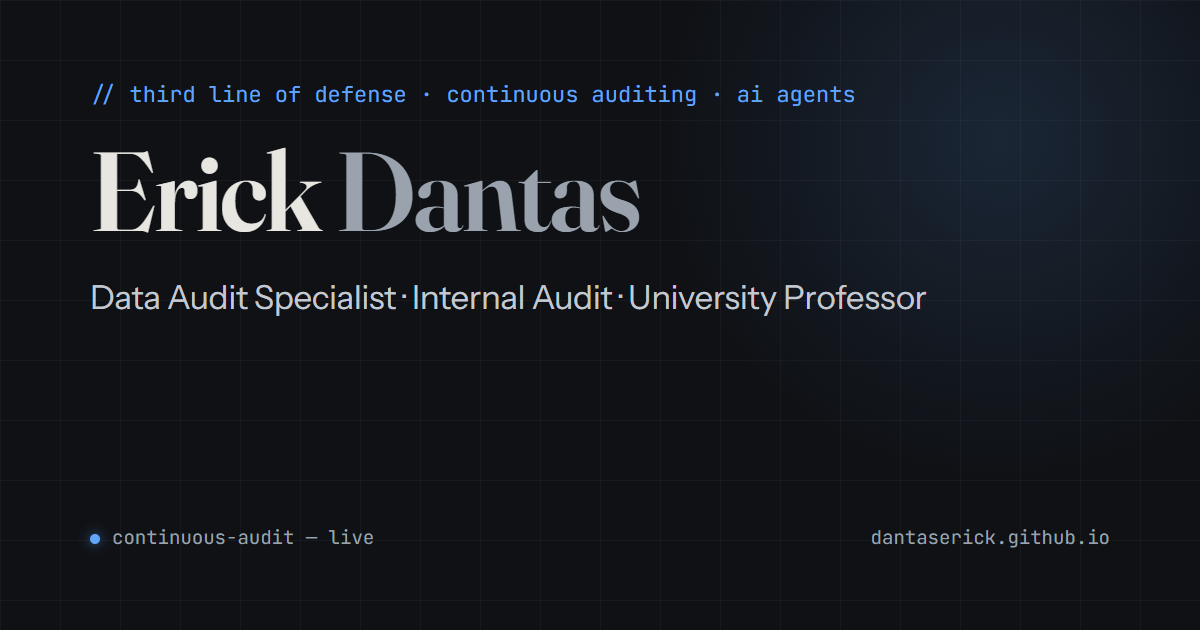
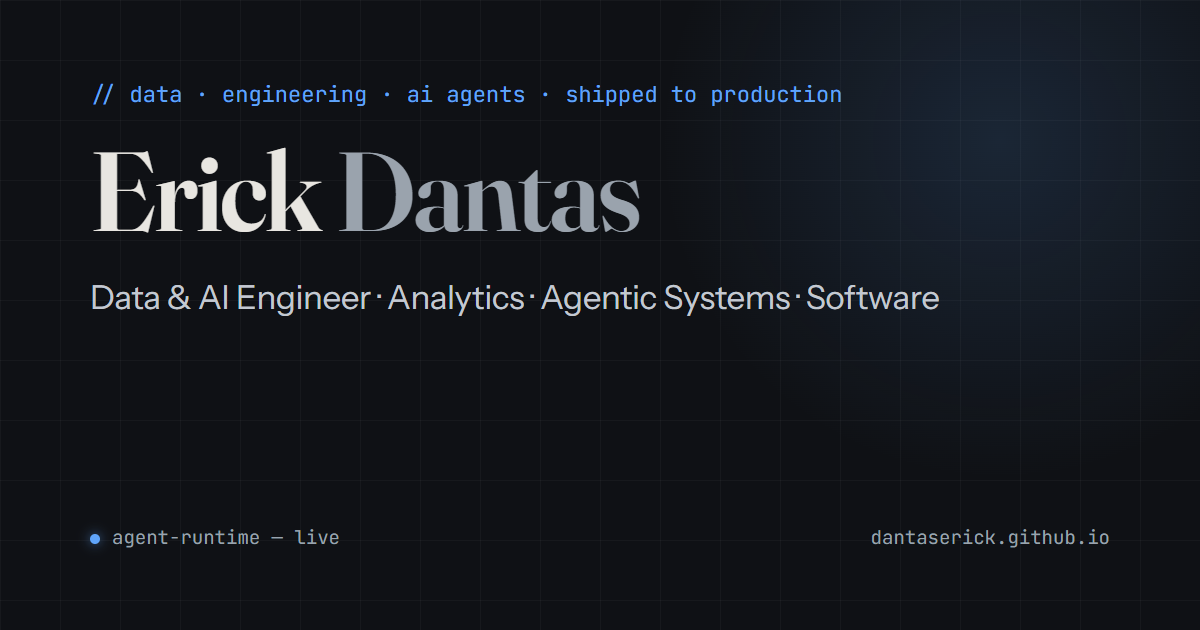
feat: reframe positioning to Data & AI Engineer (ADR-006)
Headline, hero intro, About, credentials, capabilities (5 groups, AI second),
experience bullets, agent-runtime console, title/meta/OG. Audit becomes the
domain, not the identity. Accent switched to electric blue; e-mail in hero.

Claude-Session: https://claude.ai/code/session_01LbHugGfKncvrw8msqh7Tj7

Changed region(s): [[0.1233, 0.4524, 0.8017, 0.5127], [0.0925, 0.1206, 0.7092, 0.181], [0.0925, 0.8444, 0.3083, 0.8746]]

diff --git a/src/content.ts b/src/content.ts
@@ -27,7 +27,7 @@ export type Alert = { level: 'ok' | 'info' | 'warn'; label: string; text: string
 
 export const person = {
   name: 'Erick Dantas',
-  headline: 'Data Audit Specialist · Internal Audit · AI Agents · University Professor',
+  headline: 'Data & AI Engineer · Analytics · Agentic Systems · Software',
   location: 'Santos, São Paulo, Brazil',
   email: 'dantaserick@hotmail.com',
   siteUrl: 'https://dantaserick.github.io/',
@@ -45,30 +45,30 @@ export const portrait = {
 
 /** Credentials strip under the hero. */
 export const credentials: { value: string; label: string }[] = [
-  { value: '10+', label: 'years across engineering, research and audit' },
-  { value: '3rd', label: 'line of defense, Internal Audit' },
-  { value: '2022', label: 'in Internal Audit data team since' },
+  { value: '10+', label: 'years across engineering, research and data' },
+  { value: '4+', label: 'AI agents on real fieldwork, human-gated' },
+  { value: '3', label: 'languages in production: SQL, Scala, Python' },
   { value: 'MSc', label: 'Universidade Federal de São Paulo' },
   { value: '2019', label: 'University Professor since' },
 ]
 
 export const heroIntro =
-  'I turn audit objectives into analytical tests over large-scale financial data, and build governed AI agents so audits scale without losing rigor.'
+  'I build data pipelines, analytical tests and governed AI agents that run on real financial data at scale. Today I do that inside a bank\'s Internal Audit; before that, environmental engineering and research.'
 
 export const about: string[] = [
-  'Environmental Engineer turned Data Scientist, with 10+ years across environmental sciences, academic research and corporate data auditing.',
-  'Today I am a Data Audit Specialist in the third line of defense at a large digital bank: I lead Continuous Auditing over large-scale financial data and build the agents, and the governance around them, that make an AI-first audit practice auditable.',
-  'Outside work I build software with AI coding agents: multi-agent pipelines with human approval gates, append-only ledgers for traceability, and test suites in the hundreds. The same discipline I apply to audit evidence, applied to what the agents produce.',
+  'Engineer and data scientist who builds systems: pipelines over a data lake, analytical tests in SQL, Scala and Python, and AI agents that do real work under human approval.',
+  'Today that happens inside the Internal Audit of a large digital bank, where I lead the continuous-monitoring platform and shipped the specialist agents, plus the governance layer that audits the agents themselves.',
+  'Outside work I build software with AI coding agents: multi-agent pipelines with human approval gates, append-only ledgers for traceability, and test suites in the hundreds. Desktop apps, CLIs, Android, web.',
   'In parallel, I teach in distance-learning programs in Environmental Management and Biological Sciences.',
 ]
 
 /** Fictional, generic alerts for the hero console. No real product, metric or data. */
 export const heroAlerts: Alert[] = [
-  { level: 'ok', label: 'DATA INTEGRITY', text: 'Coverage, completeness and accuracy tests passed for the monitored domain.' },
-  { level: 'warn', label: 'AUTOMATED CONTROL', text: 'Exception pattern detected. Triage opened and routed to the business auditor.' },
-  { level: 'info', label: 'AGENTIC AUDIT', text: 'Specialist agent drafted the workpaper. Meta-agent review passed. Awaiting human approval.' },
-  { level: 'ok', label: 'CONTINUOUS AUDIT', text: 'Rule set refreshed. Audit universe re-scored. Next cycle scheduled.' },
-  { level: 'info', label: 'TEACHING', text: 'New cohort onboarded. Integrated project briefs published.' },
+  { level: 'ok', label: 'PIPELINE', text: 'Incremental load finished. Schema and row counts reconciled against the source.' },
+  { level: 'ok', label: 'ANALYTICAL TEST', text: 'Coverage, completeness and accuracy checks passed for the monitored domain.' },
+  { level: 'warn', label: 'AGENT', text: 'Exception pattern found. Draft analysis and evidence bundle prepared for review.' },
+  { level: 'info', label: 'META-REVIEW', text: 'Agent output audited by the meta-agent. Traceability and quality gates passed.' },
+  { level: 'ok', label: 'HUMAN GATE', text: 'Reviewer approved. Deliverable published. Next cycle scheduled.' },
 ]
 
 export const experience: Employer[] = [
@@ -80,14 +80,14 @@ export const experience: Employer[] = [
         start: '2026-09',
         end: 'Present',
         summary:
-          'Third line of defense, in the Internal Audit data team since 2022. Data and AI to assess and strengthen internal controls, risk management and governance across the bank’s products.',
+          'Data and AI engineering inside Internal Audit, in the data team since 2022. Large-scale datasets in the data lake, analytical tests over the bank’s products, and AI agents that do real fieldwork under human approval.',
         bullets: [
-          'Turn audit objectives into analytical tests over the data lake: data coverage, integrity and accuracy, and the effectiveness of automated controls.',
-          'Lead Continuous Auditing: automated-test roadmap, audit universes and rules in SQL, Scala and Python. Rationalized the test portfolio into a curated, high-materiality baseline and authored the multi-year proposal setting its direction: continuous auditing as a service, unified control monitoring, audit-by-design and continuous assurance.',
-          'Drive the move from a centralized ETL model to a decentralized, AI-driven monitoring ecosystem, with agent-based review of the tests themselves.',
-          'Designed and shipped specialist agents used on real fieldwork under human approval gates: data analysis across business domains, process and control mapping, control-test execution with traceable workpapers and audit reporting.',
+          'Build analytical tests in SQL, Scala and Python over the data lake: data coverage, integrity and accuracy, and the effectiveness of automated controls.',
+          'Lead the continuous-monitoring platform: automated-test roadmap, test universes and rules. Rationalized the portfolio into a curated, high-materiality baseline and authored the multi-year proposal setting its direction.',
+          'Drive the migration from a centralized ETL model to a decentralized, AI-driven monitoring ecosystem, with agent-based review of the tests themselves.',
+          'Designed and shipped specialist agents used on real fieldwork under human approval gates: data analysis across business domains, process and control mapping, test execution with traceable workpapers and reporting.',
           'Built the governance layer on top of them, including a meta-agent that audits AI agents and blocks sub-standard ones from production.',
-          'Work cross-functionally with risk, product, engineering, data and compliance; build product inside the audit platform (AI-assisted evidence validation, SLA monitoring) and run the programming enablement program, mentoring teammates.',
+          'Build product inside the audit platform (AI-assisted evidence validation, SLA monitoring), work cross-functionally with risk, product, engineering, data and compliance, and run the programming enablement program, mentoring teammates.',
         ],
       },
       { title: 'Data Audit Analyst', start: '2024-09', end: '2026-09' },
@@ -170,39 +170,32 @@ export const projects: Project[] = [
 
 export const capabilities: CapabilityGroup[] = [
   {
-    name: 'Data & Audit Engineering',
-    items: ['SQL', 'Scala', 'Python', 'Databricks', 'Spark', 'Data lake analytics', 'Data quality testing'],
-  },
-  {
-    name: 'Continuous Audit & Controls',
-    items: [
-      'Continuous auditing as a service',
-      'Audit universes',
-      'Automated audit tests',
-      'Unified control monitoring',
-      'Audit-by-design',
-      'Continuous assurance',
-      'Control effectiveness',
-      'Third line of defense',
-    ],
+    name: 'Data Engineering & Analytics',
+    items: ['SQL', 'Scala', 'Python', 'Spark', 'Databricks', 'Data lake pipelines', 'Analytical tests', 'Data quality & reconciliation'],
   },
   {
     name: 'AI & Agent Engineering',
     items: [
-      'Agentic auditing',
-      'Specialist audit agents (fieldwork, workpapers, reporting)',
-      'Agent governance & meta-audit',
+      'Specialist agents in production',
+      'Agent governance & meta-review',
       'Multi-agent orchestration',
       'Human-in-the-loop gates',
       'Claude Code plugins & skills',
       'Browser automation (CDP)',
       'Agent-driven TDD',
-      'Responsible AI use',
     ],
   },
   {
+    name: 'Software Engineering',
+    items: ['TypeScript', 'React', 'Node.js', 'Kotlin & Compose', 'Electron', 'CLIs', 'SQLite', 'Vitest / test suites in the hundreds'],
+  },
+  {
+    name: 'Domain: Audit & Controls',
+    items: ['Continuous monitoring as a service', 'Control effectiveness', 'Audit-by-design', 'Continuous assurance', 'Third line of defense'],
+  },
+  {
     name: 'Teaching & Research',
-    items: ['Higher education (distance learning)', 'Environmental sciences', 'Academic research', 'Integrated project supervision', 'Programming enablement & mentoring'],
+    items: ['Higher education (distance learning)', 'Environmental sciences', 'Academic research', 'Programming enablement & mentoring'],
   },
 ]
 

diff --git a/index.html b/index.html
@@ -3,14 +3,14 @@
   <head>
     <meta charset="UTF-8" />
     <meta name="viewport" content="width=device-width, initial-scale=1.0" />
-    <title>Erick Dantas — Data Audit Specialist · Internal Audit</title>
-    <meta name="description" content="Data Audit Specialist in Internal Audit and University Professor. Continuous auditing, data integrity testing and governed AI agents over large-scale financial data." />
+    <title>Erick Dantas — Data & AI Engineer</title>
+    <meta name="description" content="Data & AI Engineer: data pipelines, analytical tests and governed AI agents on real financial data at scale. Software builder, university professor." />
     <link rel="icon" type="image/svg+xml" href="/favicon.svg" />
     <link rel="canonical" href="https://dantaserick.github.io/" />
     <meta name="theme-color" content="#0f1115" />
     <meta property="og:type" content="website" />
     <meta property="og:url" content="https://dantaserick.github.io/" />
-    <meta property="og:title" content="Erick Dantas — Data Audit Specialist · Internal Audit" />
+    <meta property="og:title" content="Erick Dantas — Data & AI Engineer" />
     <meta property="og:description" content="Continuous audit, data integrity testing and AI-assisted audit workflows over large-scale financial data." />
     <meta property="og:image" content="https://dantaserick.github.io/og.png" />
     <meta name="twitter:card" content="summary_large_image" />

diff --git a/src/components/Hero.tsx b/src/components/Hero.tsx
@@ -10,7 +10,7 @@ export default function Hero() {
       <div id="hero-grid" className="mx-auto grid max-w-6xl gap-10 px-5 pt-24 lg:grid-cols-[minmax(0,1fr)_17rem] lg:items-start lg:gap-x-14 lg:gap-y-5 lg:pt-16">
         {/* text column */}
         <div className="lg:pt-1">
-          <p className="animate-fade-up font-mono text-xs text-accent">// third line of defense&nbsp;· continuous auditing&nbsp;· ai agents</p>
+          <p className="animate-fade-up font-mono text-xs text-accent">// data&nbsp;· engineering&nbsp;· ai agents&nbsp;· shipped to production</p>
           <h1 className="animate-fade-up mt-4 text-6xl font-medium leading-[0.92] tracking-[-0.02em] [animation-delay:80ms] sm:text-7xl lg:text-[4rem]">
             {first}
             <br className="lg:hidden" />
@@ -80,7 +80,7 @@ export default function Hero() {
               <span>{person.name.toUpperCase()}</span>
               <span className="flex items-center gap-1.5">
                 <span className="h-1.5 w-1.5 rounded-full bg-accent animate-pulse-dot" />
-                INTERNAL AUDIT
+                DATA &amp; AI
               </span>
             </figcaption>
           </div>

diff --git a/src/components/AuditConsole.tsx b/src/components/AuditConsole.tsx
@@ -38,7 +38,7 @@ export default function AuditConsole({ alerts }: { alerts: Alert[] }) {
         <span className="h-2.5 w-2.5 rounded-full bg-line" />
         <span className="h-2.5 w-2.5 rounded-full bg-line" />
         <span className="h-2.5 w-2.5 rounded-full bg-line" />
-        <span className="ml-2 truncate">continuous-audit — live</span>
+        <span className="ml-2 truncate">agent-runtime — live</span>
         <span className="ml-auto hidden items-center gap-1.5 text-[10px] sm:flex">
           <span className="h-1.5 w-1.5 rounded-full bg-accent animate-pulse-dot" />
           uptime {hh}:{mm}:{ss}
@@ -69,8 +69,8 @@ export default function AuditConsole({ alerts }: { alerts: Alert[] }) {
       </ul>
 
       <div className="flex items-center justify-between border-t border-line px-4 py-1.5 text-[10px] text-muted">
-        <span>rules: active</span>
-        <span>universe: scored</span>
+        <span>pipelines: green</span>
+        <span>agents: governed</span>
         <span>human-in-the-loop: on</span>
       </div>
 

diff --git a/src/content.test.ts b/src/content.test.ts
@@ -42,8 +42,9 @@ describe('content invariants', () => {
     expect(blob).not.toMatch(/intellio|youtube|phaser|unity|game/)
   })
 
-  it('capabilities have 4 groups with items', () => {
-    expect(capabilities).toHaveLength(4)
+  it('capabilities have 5 groups with items, AI & Agent Engineering second', () => {
+    expect(capabilities).toHaveLength(5)
+    expect(capabilities[1].name).toBe('AI & Agent Engineering')
     for (const g of capabilities) expect(g.items.length).toBeGreaterThan(0)
   })
 

diff --git a/README.md b/README.md
@@ -1,6 +1,6 @@
 # dantaserick.github.io
 
-Personal site of Erick Dantas — Data Audit Specialist (Internal Audit) and University Professor.
+Personal site of Erick Dantas — Data & AI Engineer (analytics, agentic systems, software) and University Professor.
 Live at **https://dantaserick.github.io**.
 
 ## Stack
